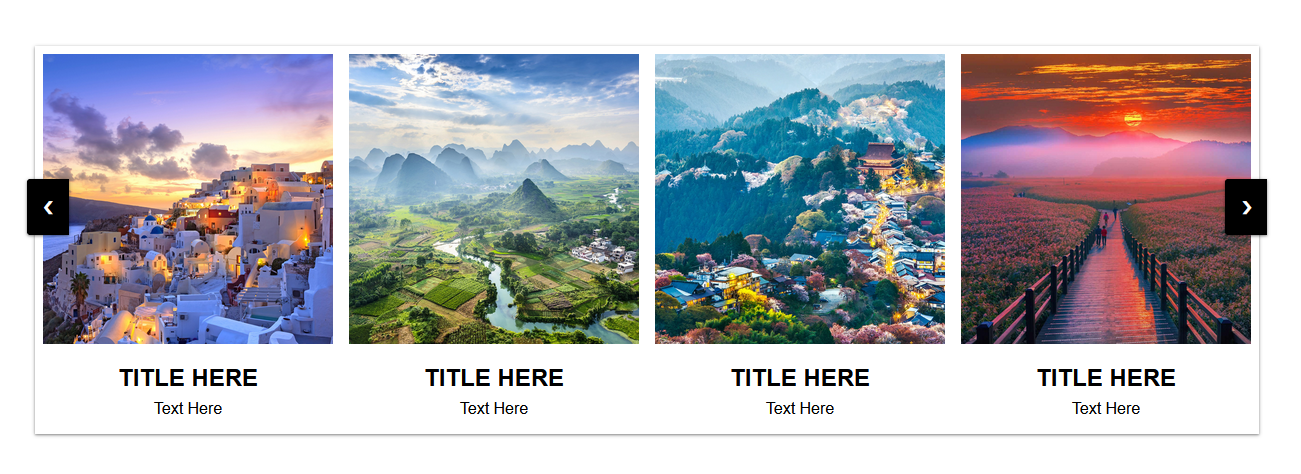
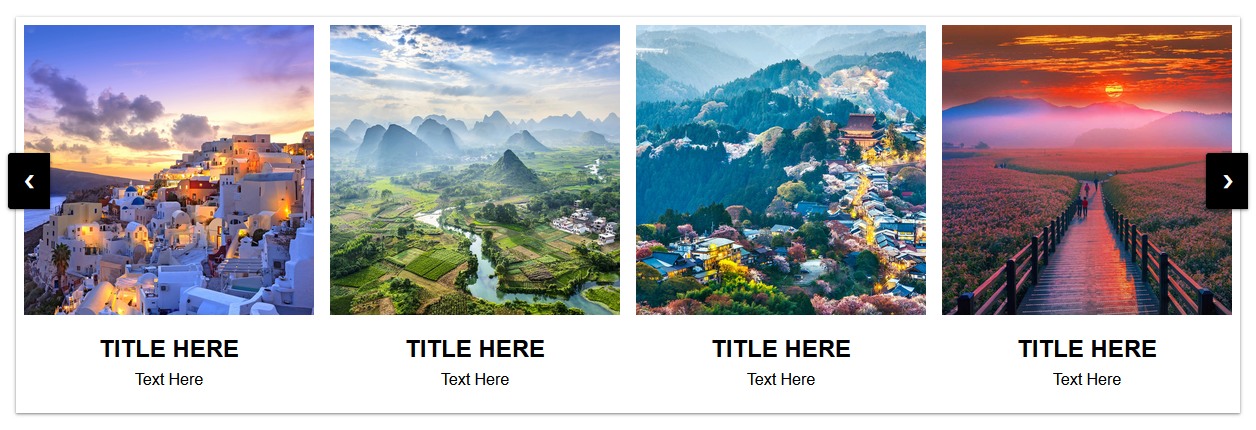
Latest

diff --git a/css/slider.css b/css/slider.css
@@ -33,7 +33,7 @@ body{
 }
 .slider_container .row_images p{
     color: #000;
-    margin: 0.5rem 0 1rem 0;
+    margin: 0.5rem 0 1.5rem 0;
 }
 .slider_container .row_images h2{
     color: #000;
